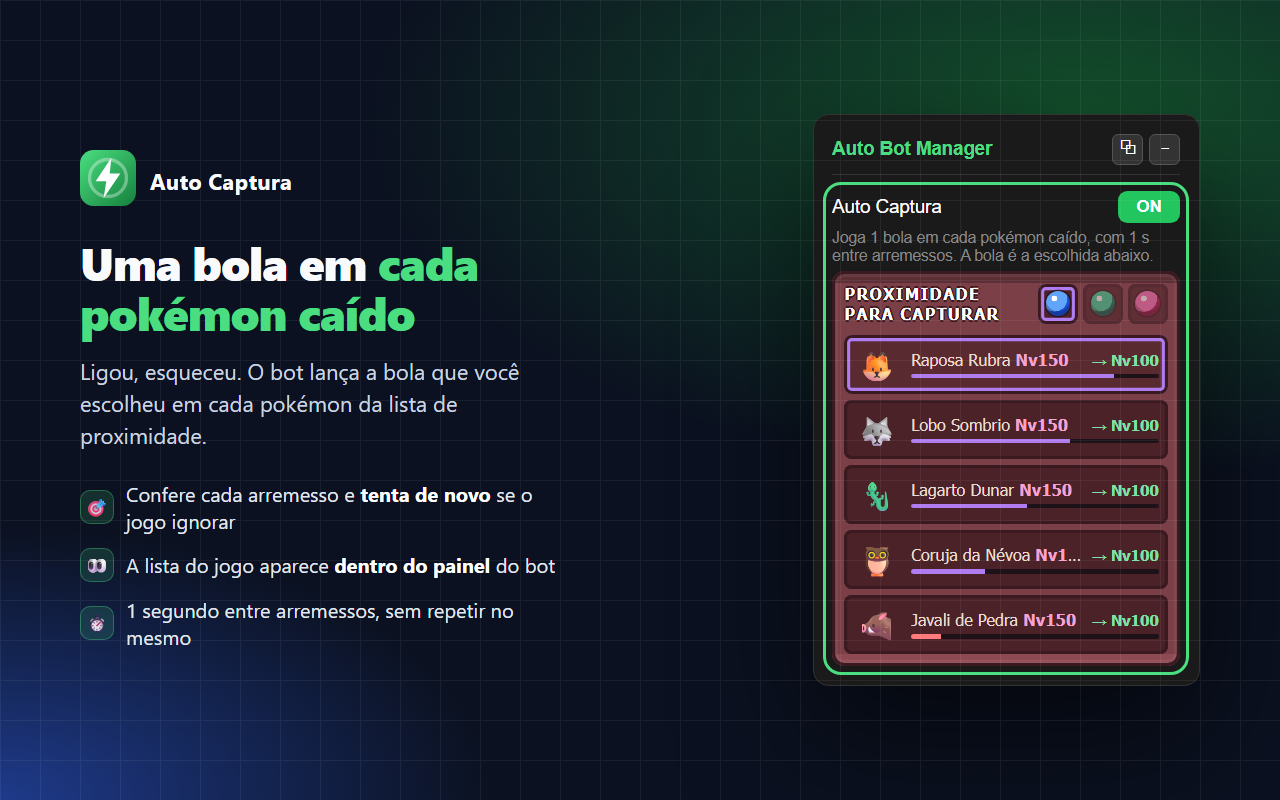
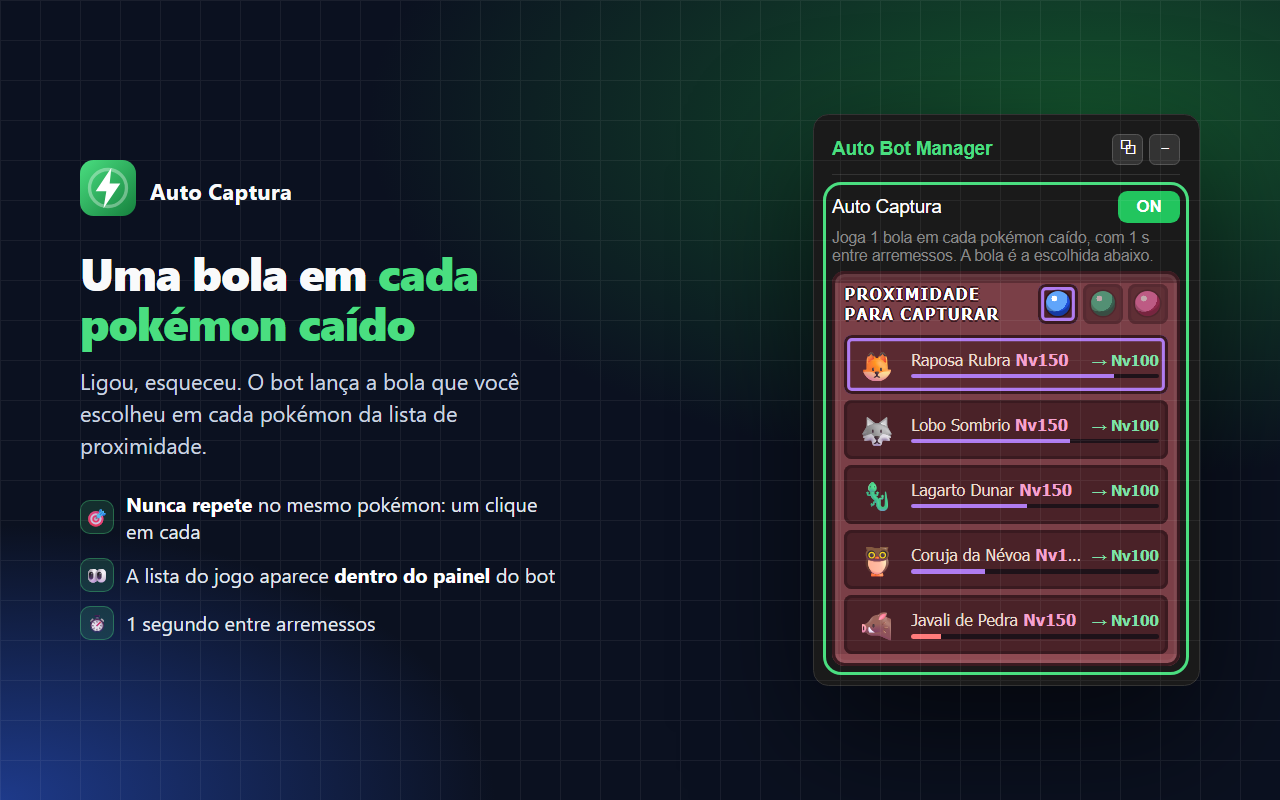
fix: auto captura clica uma unica vez em cada pokemon caido (bump version to 2.3.1)

Changed region(s): [[0.0625, 0.3125, 0.4375, 0.8125], [0.0625, 0.1875, 0.25, 0.2812]]

diff --git a/bot.js b/bot.js
@@ -907,9 +907,9 @@
     // =====================================================================
     const ESPERA_ARREMESSO = 1000; // depois de cada arremesso
     const ESPERA_LISTA = 100; // de quanto em quanto tempo olha a lista vazia
-    const PRAZO_CONFIRMACAO = 2000; // a bola saiu = o caído some da lista (visto em ~0,5 s)
-    const PAUSA_NOVA_TENTATIVA = 3000; // o jogo ignora cliques com outra bola no ar
-    const jaArremessados = new Map(); // slot → quando foi clicado (não clica de novo antes da pausa)
+    // Cada caído recebe UM clique e nunca mais (mesma regra do script original). O registro é
+    // pelo slot e também no próprio botão: se o jogo redesenhar a lista, o slot continua marcado.
+    const jaArremessados = new Map(); // slot → quando recebeu a bola
     let cicloCaptura = null;
 
     function atualizarBotaoCaptura() {
@@ -921,14 +921,10 @@
     function proximoCaido() {
         const lista = meuDoJogo('#caidos-lista');
         if (!lista) return null;
-        const agora = Date.now();
-        return $$(':scope > button.caido:not([disabled])', lista).find((b) => {
-            const quando = jaArremessados.get(b.dataset.slot || b);
-            return quando === undefined || agora - quando >= PAUSA_NOVA_TENTATIVA;
-        });
+        return $$(':scope > button.caido:not([disabled]):not([data-auto-clicado])', lista).find(
+            (b) => !b.dataset.slot || !jaArremessados.has(b.dataset.slot)
+        );
     }
-
-    const caidoNaLista = (slot) => Boolean(meuDoJogo('#caidos-lista')?.querySelector(`:scope > [data-slot="${CSS.escape(slot)}"]`));
 
     function ligarCaptura() {
         const ciclo = {};
@@ -936,8 +932,8 @@
         atualizarBotaoCaptura();
         (async () => {
             while (cicloCaptura === ciclo && !encerrado) {
-                // Esquece slots antigos (o jogo reaproveita números depois de um tempo)
-                const limite = Date.now() - 10 * 60 * 1000;
+                // Esquece slots de mais de 30 min (o jogo pode reaproveitar números bem depois)
+                const limite = Date.now() - 30 * 60 * 1000;
                 jaArremessados.forEach((quando, slot) => { if (quando < limite) jaArremessados.delete(slot); });
 
                 const alvo = jogo.sessaoPausada() ? null : proximoCaido();
@@ -946,22 +942,19 @@
                     continue;
                 }
                 const slot = alvo.dataset.slot;
-                const nome = alvo.querySelector('.caido-quem')?.textContent.trim();
-                jaArremessados.set(slot || alvo, Date.now());
+                alvo.dataset.autoClicado = '1'; // nunca mais clica neste botão
+                if (slot) jaArremessados.set(slot, Date.now()); // nem neste slot, mesmo se o botão for recriado
                 try {
                     alvo.click();
+                    const nome = alvo.querySelector('.caido-quem')?.textContent.trim();
+                    console.log(`[Bot Pokeidle] Auto Captura: bola em ${nome} (slot ${slot})`);
                 } catch (erro) {
                     console.warn('[Bot Pokeidle] Auto Captura:', erro);
                 }
-                // Confirmação: o caído sai da lista quando a bola é lançada. Se continuar lá,
-                // o jogo ignorou o clique e ele recebe outra tentativa depois da pausa.
-                const lancou = slot ? await aguardar(() => !caidoNaLista(slot), PRAZO_CONFIRMACAO, 100) : true;
-                console.log(`[Bot Pokeidle] Auto Captura: ${lancou ? 'bola em' : 'clique ignorado pelo jogo, tenta de novo:'} ${nome} (slot ${slot})`);
                 await sleep(ESPERA_ARREMESSO);
             }
         })();
     }
-
     function desligarCaptura() {
         cicloCaptura = null;
         atualizarBotaoCaptura();

diff --git a/README.md b/README.md
@@ -37,7 +37,7 @@
 
 ### 🎯 Auto Captura
 - Joga **1 bola em cada pokémon caído**, com a bola escolhida no jogo.
-- Confere cada arremesso: se o jogo ignorar o clique, tenta de novo.
+- **Nunca repete** no mesmo pokémon: cada um recebe um único clique.
 - A lista **Proximidade para Capturar** aparece dentro do painel do bot, igual à do jogo.
 
 <img src="docs/auto-captura.png" alt="Auto Captura" width="640">
